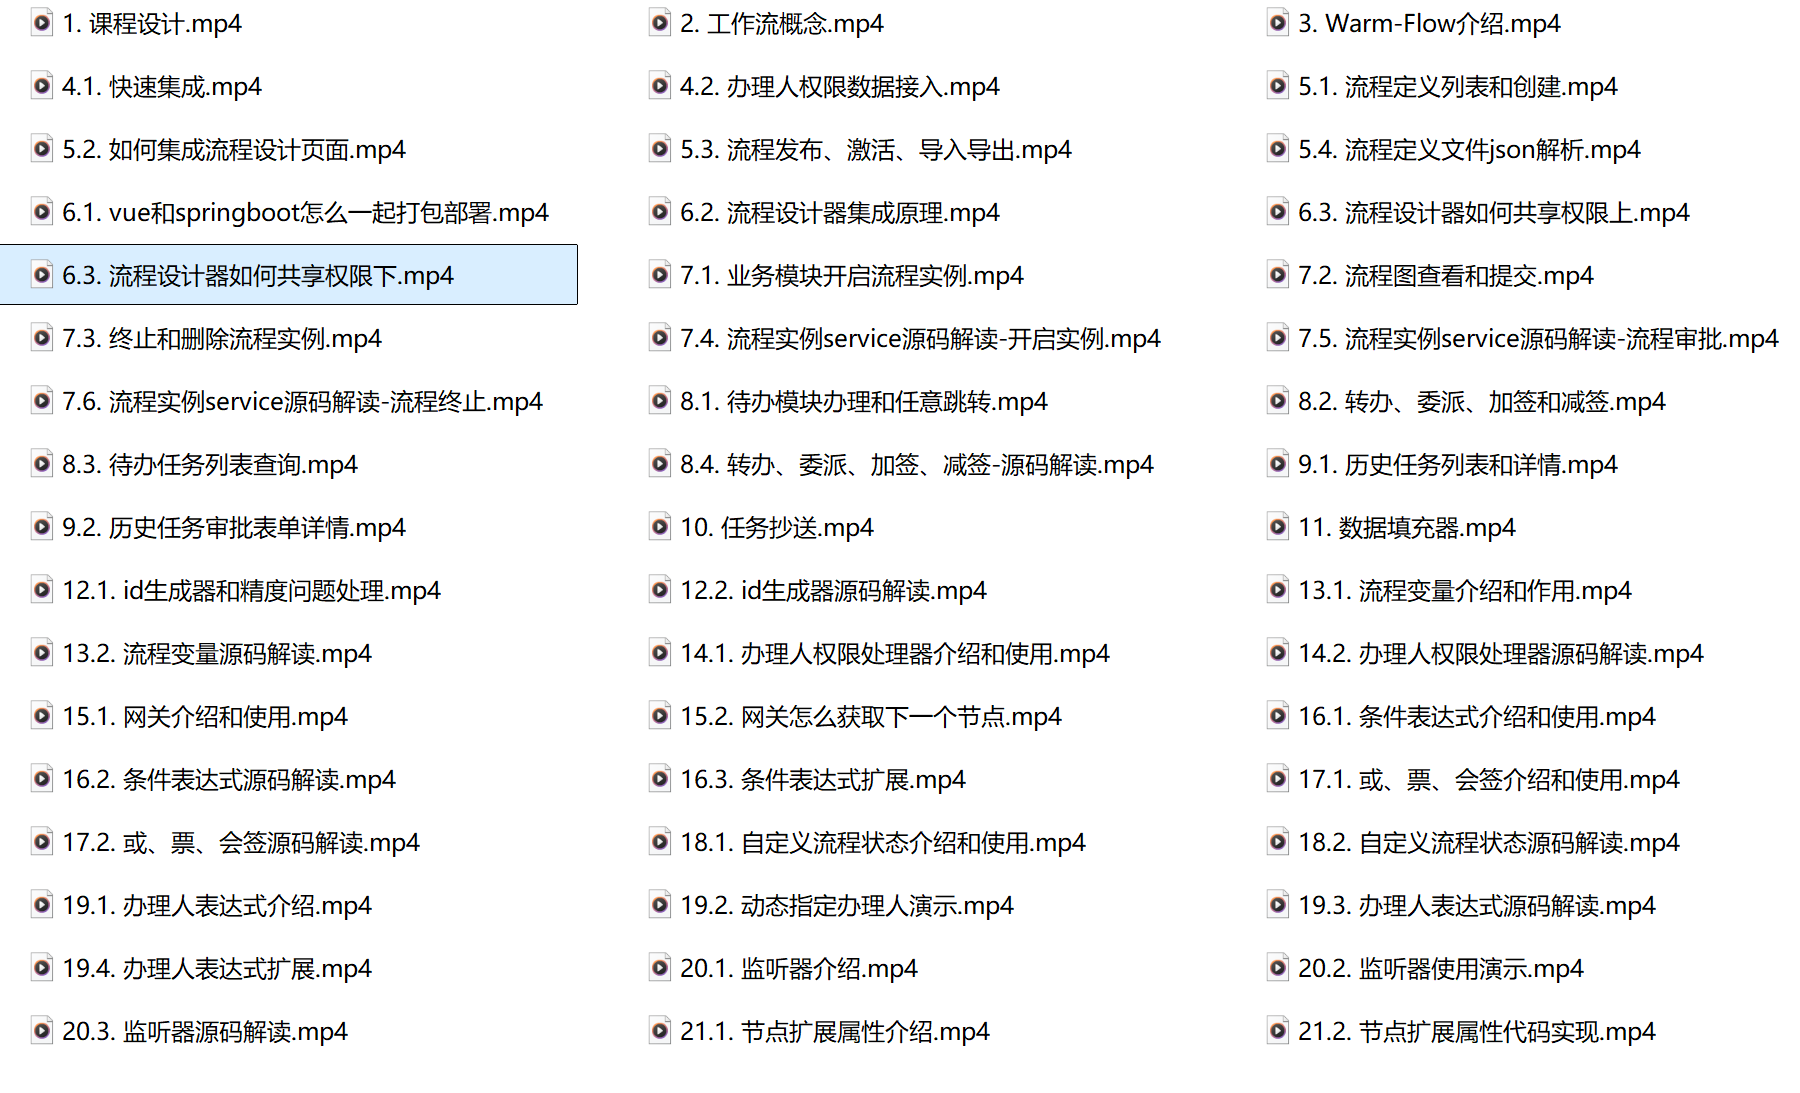
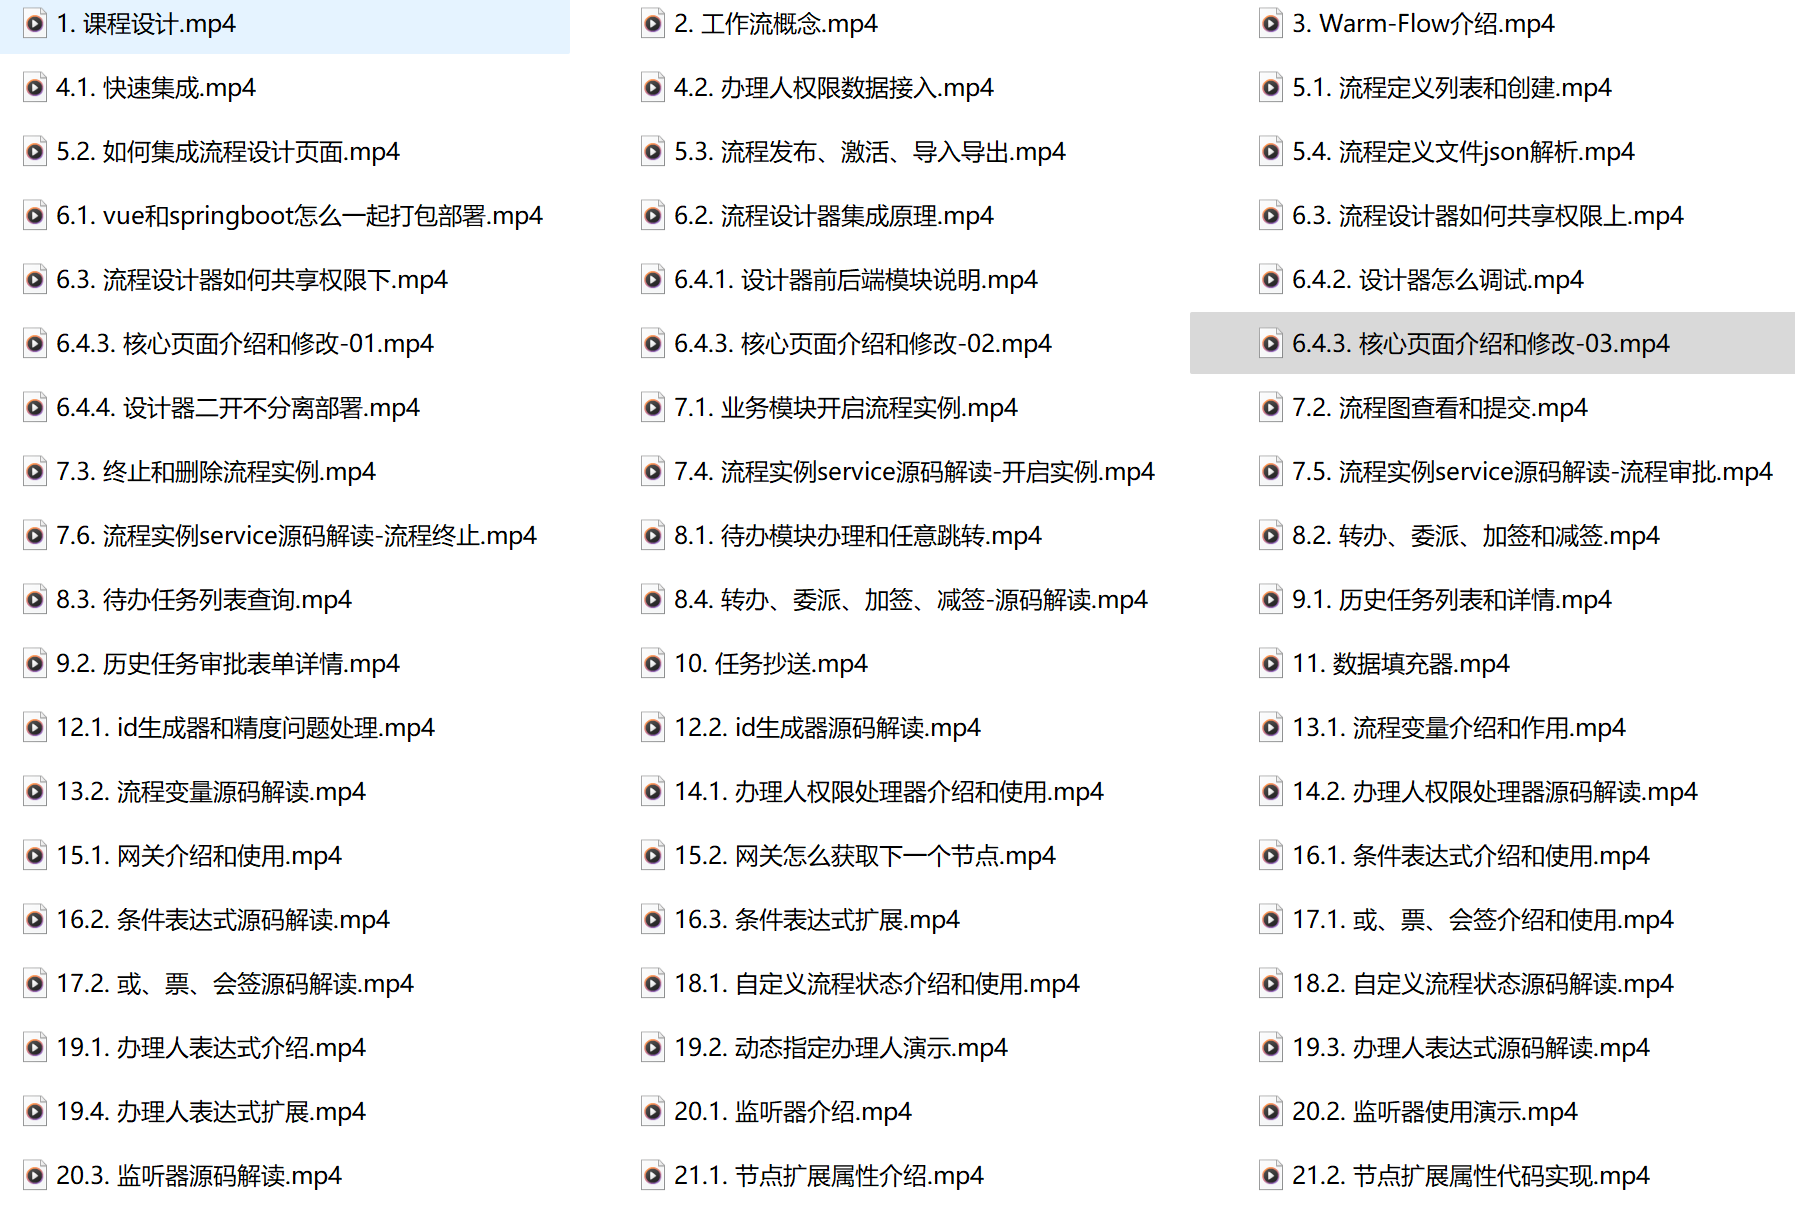
[update] 更新文档

diff --git a/src/master/other/videos.md b/src/master/other/videos.md
@@ -28,7 +28,7 @@
 
 
 ### **课程目录**
-- 已更新到<span class="red-font-bold">51</span>集，预计会有<span class="red-font-bold">80+</span>集，后续有新增功能，还会多
+- 已更新到<span class="red-font-bold">57</span>集，预计会有<span class="red-font-bold">80+</span>集，后续有新增功能，还会多
 
 <br>
 
